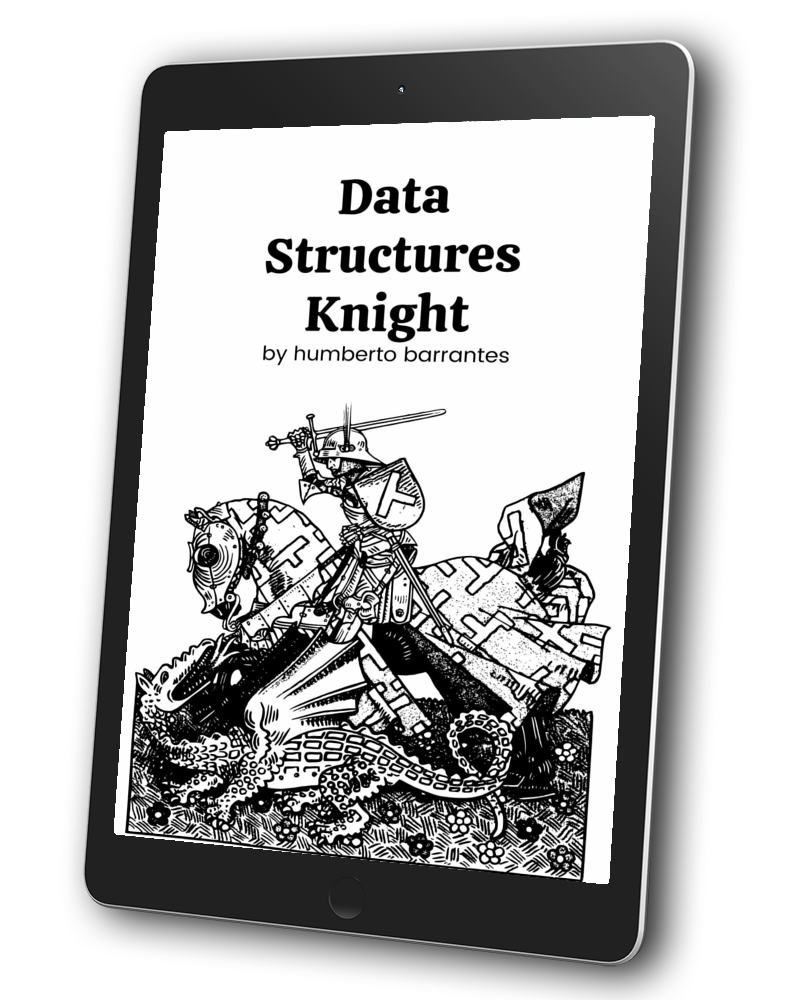
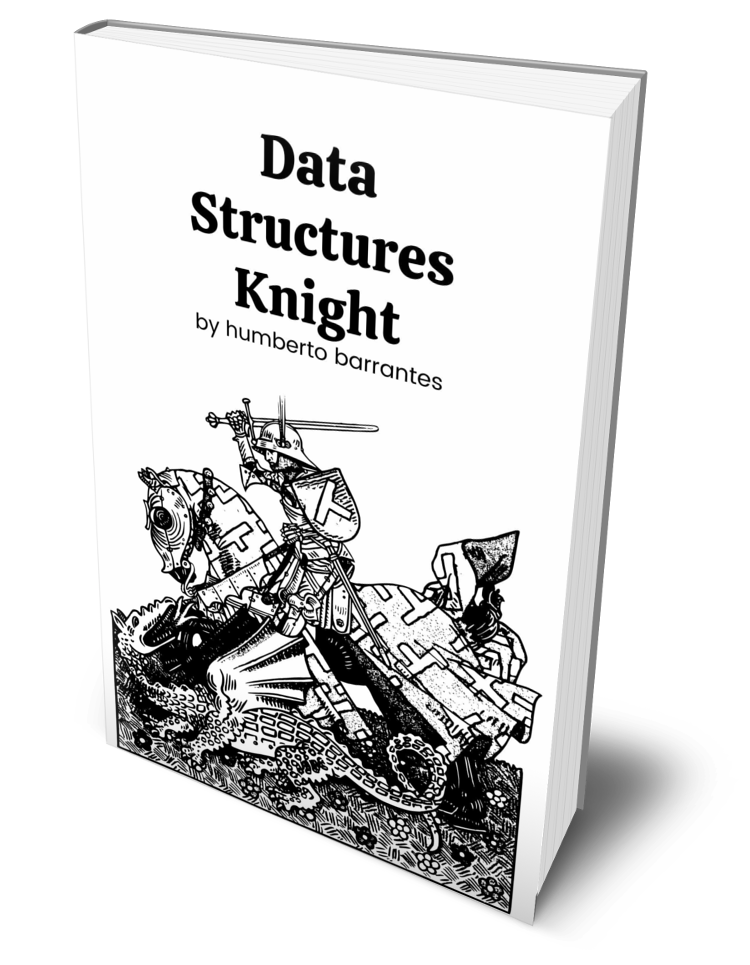
topics accordion

diff --git a/index.html b/index.html
@@ -62,7 +62,7 @@
                     <a href="#pricing" class="btn btn-secondary btn-lg">Buy Now!</a>
                 </div>
                 <div class="col-md-5 text-center d-none d-md-block"> <!-- "d-none d-md-block" visible from md-->
-                    <img class="img-fluid" src="/assets/book-cover.png" alt="book cover">
+                    <img class="img-fluid" src="/assets/ebook-cover.png" alt="book cover">
                 </div>
             </div>
         </div>
@@ -115,6 +115,77 @@
     </section>
 
     <!-- topics at a glance -->
+    <section id="topics">
+        <div class="container-md">
+            <div class="text-center">
+                <h2>Inside the Book...</h2>
+                <p class="lead text-muted">A quick glance at the topics you'll learn</p>
+            </div>
+        </div>
+        <div class="row my-5 g-5 justify-content-around align-items-center">
+            <div class="col-6 col-lg-4">
+                <img class="img-fluid" src="/assets/kindle-cover.png" alt="kindle cover">
+            </div>
+            <div class="col-lg-6">
+                <!-- accordion -->
+                <div class="accordion" id="chapters">
+                    <div class="accordion-item">
+                        <h2 class="accordion-header" id="heading-1">
+                            <button class="accordion-button" type="button" data-bs-toggle="collapse" data-bs-target="#chapter-1" aria-expanded="true" aria-controls="chapter-1">
+                                Chapter 1 - Arrays and Lists
+                            </button>
+                        </h2>
+                        <div id="chapter-1" class="accordion-collapse collapse show" aria-labelledby="heading-1" data-bs-parent="#chapters">
+                            <div class="accordion-body">
+                                <p>Lorem ipsum dolor sit amet, consectetur adipiscing elit. Pellentesque fringilla mauris at congue pellentesque. Ut ullamcorper diam eu rhoncus commodo. Fusce auctor ante eget ullamcorper mattis. Aliquam non lobortis mauris. Quisque a massa vel sapien semper aliquam quis id tellus. Maecenas eu odio metus. Praesent mattis consectetur sagittis. Nulla turpis libero, tincidunt ac mattis et, ultricies a velit. Sed lacinia ligula velit, nec lacinia neque porttitor at. Morbi ultricies sem dui, efficitur tempor massa fermentum non. Class aptent taciti sociosqu ad litora torquent per conubia nostra, per inceptos himenaeos. Vestibulum efficitur porttitor hendrerit. Cras tristique lorem eget nulla condimentum, nec egestas augue pellentesque.</p>
+                                <p>Praesent sagittis vel leo eu tristique. Donec consequat sed ipsum sed hendrerit. Quisque convallis consectetur urna vitae accumsan. Aenean elementum eros non nibh bibendum, ac maximus orci finibus. Sed nec enim vitae arcu tempus faucibus a sed nunc. Ut ultrices urna sem, a maximus sapien bibendum a. Ut luctus erat diam, vitae vestibulum metus ornare eget. Sed porta libero at enim molestie blandit. Sed arcu elit, mattis at vestibulum eu, scelerisque quis tortor. Duis ac orci quam. Maecenas blandit justo mauris, a feugiat risus cursus non. Mauris tristique, enim quis tempus lobortis, nisl tortor semper tortor, vel fringilla felis nulla et nulla. Curabitur condimentum, magna a tincidunt aliquet, diam diam condimentum urna, eget tempor ex erat non ex. Maecenas convallis rhoncus justo, nec eleifend lacus tristique sed. Nulla semper lectus et justo malesuada egestas.</p>
+                            </div>
+                        </div>
+                    </div>
+                    <div class="accordion-item">
+                        <h2 class="accordion-header" id="heading-2">
+                            <button class="accordion-button collapsed" type="button" data-bs-toggle="collapse" data-bs-target="#chapter-2" aria-expanded="false" aria-controls="chapter-2">
+                                Chapter 2 - Stacks and Queues
+                            </button>
+                        </h2>
+                        <div id="chapter-2" class="accordion-collapse collapse" aria-labelledby="heading-2" data-bs-parent="#chapters">
+                            <div class="accordion-body">
+                                <p>Lorem ipsum dolor sit amet, consectetur adipiscing elit. Pellentesque fringilla mauris at congue pellentesque. Ut ullamcorper diam eu rhoncus commodo. Fusce auctor ante eget ullamcorper mattis. Aliquam non lobortis mauris. Quisque a massa vel sapien semper aliquam quis id tellus. Maecenas eu odio metus. Praesent mattis consectetur sagittis. Nulla turpis libero, tincidunt ac mattis et, ultricies a velit. Sed lacinia ligula velit, nec lacinia neque porttitor at. Morbi ultricies sem dui, efficitur tempor massa fermentum non. Class aptent taciti sociosqu ad litora torquent per conubia nostra, per inceptos himenaeos. Vestibulum efficitur porttitor hendrerit. Cras tristique lorem eget nulla condimentum, nec egestas augue pellentesque.</p>
+                                <p>Praesent sagittis vel leo eu tristique. Donec consequat sed ipsum sed hendrerit. Quisque convallis consectetur urna vitae accumsan. Aenean elementum eros non nibh bibendum, ac maximus orci finibus. Sed nec enim vitae arcu tempus faucibus a sed nunc. Ut ultrices urna sem, a maximus sapien bibendum a. Ut luctus erat diam, vitae vestibulum metus ornare eget. Sed porta libero at enim molestie blandit. Sed arcu elit, mattis at vestibulum eu, scelerisque quis tortor. Duis ac orci quam. Maecenas blandit justo mauris, a feugiat risus cursus non. Mauris tristique, enim quis tempus lobortis, nisl tortor semper tortor, vel fringilla felis nulla et nulla. Curabitur condimentum, magna a tincidunt aliquet, diam diam condimentum urna, eget tempor ex erat non ex. Maecenas convallis rhoncus justo, nec eleifend lacus tristique sed. Nulla semper lectus et justo malesuada egestas.</p>
+                            </div>
+                        </div>
+                    </div>
+                    <div class="accordion-item">
+                        <h2 class="accordion-header" id="heading-3">
+                            <button class="accordion-button collapsed" type="button" data-bs-toggle="collapse" data-bs-target="#chapter-3" aria-expanded="false" aria-controls="chapter-3">
+                                Chapter 3 - Trees
+                            </button>
+                        </h2>
+                        <div id="chapter-3" class="accordion-collapse collapse" aria-labelledby="heading-3" data-bs-parent="#chapters">
+                            <div class="accordion-body">
+                                <p>Lorem ipsum dolor sit amet, consectetur adipiscing elit. Pellentesque fringilla mauris at congue pellentesque. Ut ullamcorper diam eu rhoncus commodo. Fusce auctor ante eget ullamcorper mattis. Aliquam non lobortis mauris. Quisque a massa vel sapien semper aliquam quis id tellus. Maecenas eu odio metus. Praesent mattis consectetur sagittis. Nulla turpis libero, tincidunt ac mattis et, ultricies a velit. Sed lacinia ligula velit, nec lacinia neque porttitor at. Morbi ultricies sem dui, efficitur tempor massa fermentum non. Class aptent taciti sociosqu ad litora torquent per conubia nostra, per inceptos himenaeos. Vestibulum efficitur porttitor hendrerit. Cras tristique lorem eget nulla condimentum, nec egestas augue pellentesque.</p>
+                                <p>Praesent sagittis vel leo eu tristique. Donec consequat sed ipsum sed hendrerit. Quisque convallis consectetur urna vitae accumsan. Aenean elementum eros non nibh bibendum, ac maximus orci finibus. Sed nec enim vitae arcu tempus faucibus a sed nunc. Ut ultrices urna sem, a maximus sapien bibendum a. Ut luctus erat diam, vitae vestibulum metus ornare eget. Sed porta libero at enim molestie blandit. Sed arcu elit, mattis at vestibulum eu, scelerisque quis tortor. Duis ac orci quam. Maecenas blandit justo mauris, a feugiat risus cursus non. Mauris tristique, enim quis tempus lobortis, nisl tortor semper tortor, vel fringilla felis nulla et nulla. Curabitur condimentum, magna a tincidunt aliquet, diam diam condimentum urna, eget tempor ex erat non ex. Maecenas convallis rhoncus justo, nec eleifend lacus tristique sed. Nulla semper lectus et justo malesuada egestas.</p>
+                            </div>
+                        </div>
+                    </div>
+                    <div class="accordion-item">
+                        <h2 class="accordion-header" id="heading-4">
+                            <button class="accordion-button collapsed" type="button" data-bs-toggle="collapse" data-bs-target="#chapter-4" aria-expanded="false" aria-controls="chapter-4">
+                                Chapter 4 - Graphs
+                            </button>
+                        </h2>
+                        <div id="chapter-4" class="accordion-collapse collapse" aria-labelledby="heading-4" data-bs-parent="#chapters">
+                            <div class="accordion-body">
+                                <p>Lorem ipsum dolor sit amet, consectetur adipiscing elit. Pellentesque fringilla mauris at congue pellentesque. Ut ullamcorper diam eu rhoncus commodo. Fusce auctor ante eget ullamcorper mattis. Aliquam non lobortis mauris. Quisque a massa vel sapien semper aliquam quis id tellus. Maecenas eu odio metus. Praesent mattis consectetur sagittis. Nulla turpis libero, tincidunt ac mattis et, ultricies a velit. Sed lacinia ligula velit, nec lacinia neque porttitor at. Morbi ultricies sem dui, efficitur tempor massa fermentum non. Class aptent taciti sociosqu ad litora torquent per conubia nostra, per inceptos himenaeos. Vestibulum efficitur porttitor hendrerit. Cras tristique lorem eget nulla condimentum, nec egestas augue pellentesque.</p>
+                                <p>Praesent sagittis vel leo eu tristique. Donec consequat sed ipsum sed hendrerit. Quisque convallis consectetur urna vitae accumsan. Aenean elementum eros non nibh bibendum, ac maximus orci finibus. Sed nec enim vitae arcu tempus faucibus a sed nunc. Ut ultrices urna sem, a maximus sapien bibendum a. Ut luctus erat diam, vitae vestibulum metus ornare eget. Sed porta libero at enim molestie blandit. Sed arcu elit, mattis at vestibulum eu, scelerisque quis tortor. Duis ac orci quam. Maecenas blandit justo mauris, a feugiat risus cursus non. Mauris tristique, enim quis tempus lobortis, nisl tortor semper tortor, vel fringilla felis nulla et nulla. Curabitur condimentum, magna a tincidunt aliquet, diam diam condimentum urna, eget tempor ex erat non ex. Maecenas convallis rhoncus justo, nec eleifend lacus tristique sed. Nulla semper lectus et justo malesuada egestas.</p>
+                            </div>
+                        </div>
+                    </div>
+                </div>
+            </div>
+        </div>
+    </section>
+
 
     <!-- reviews list -->
 
